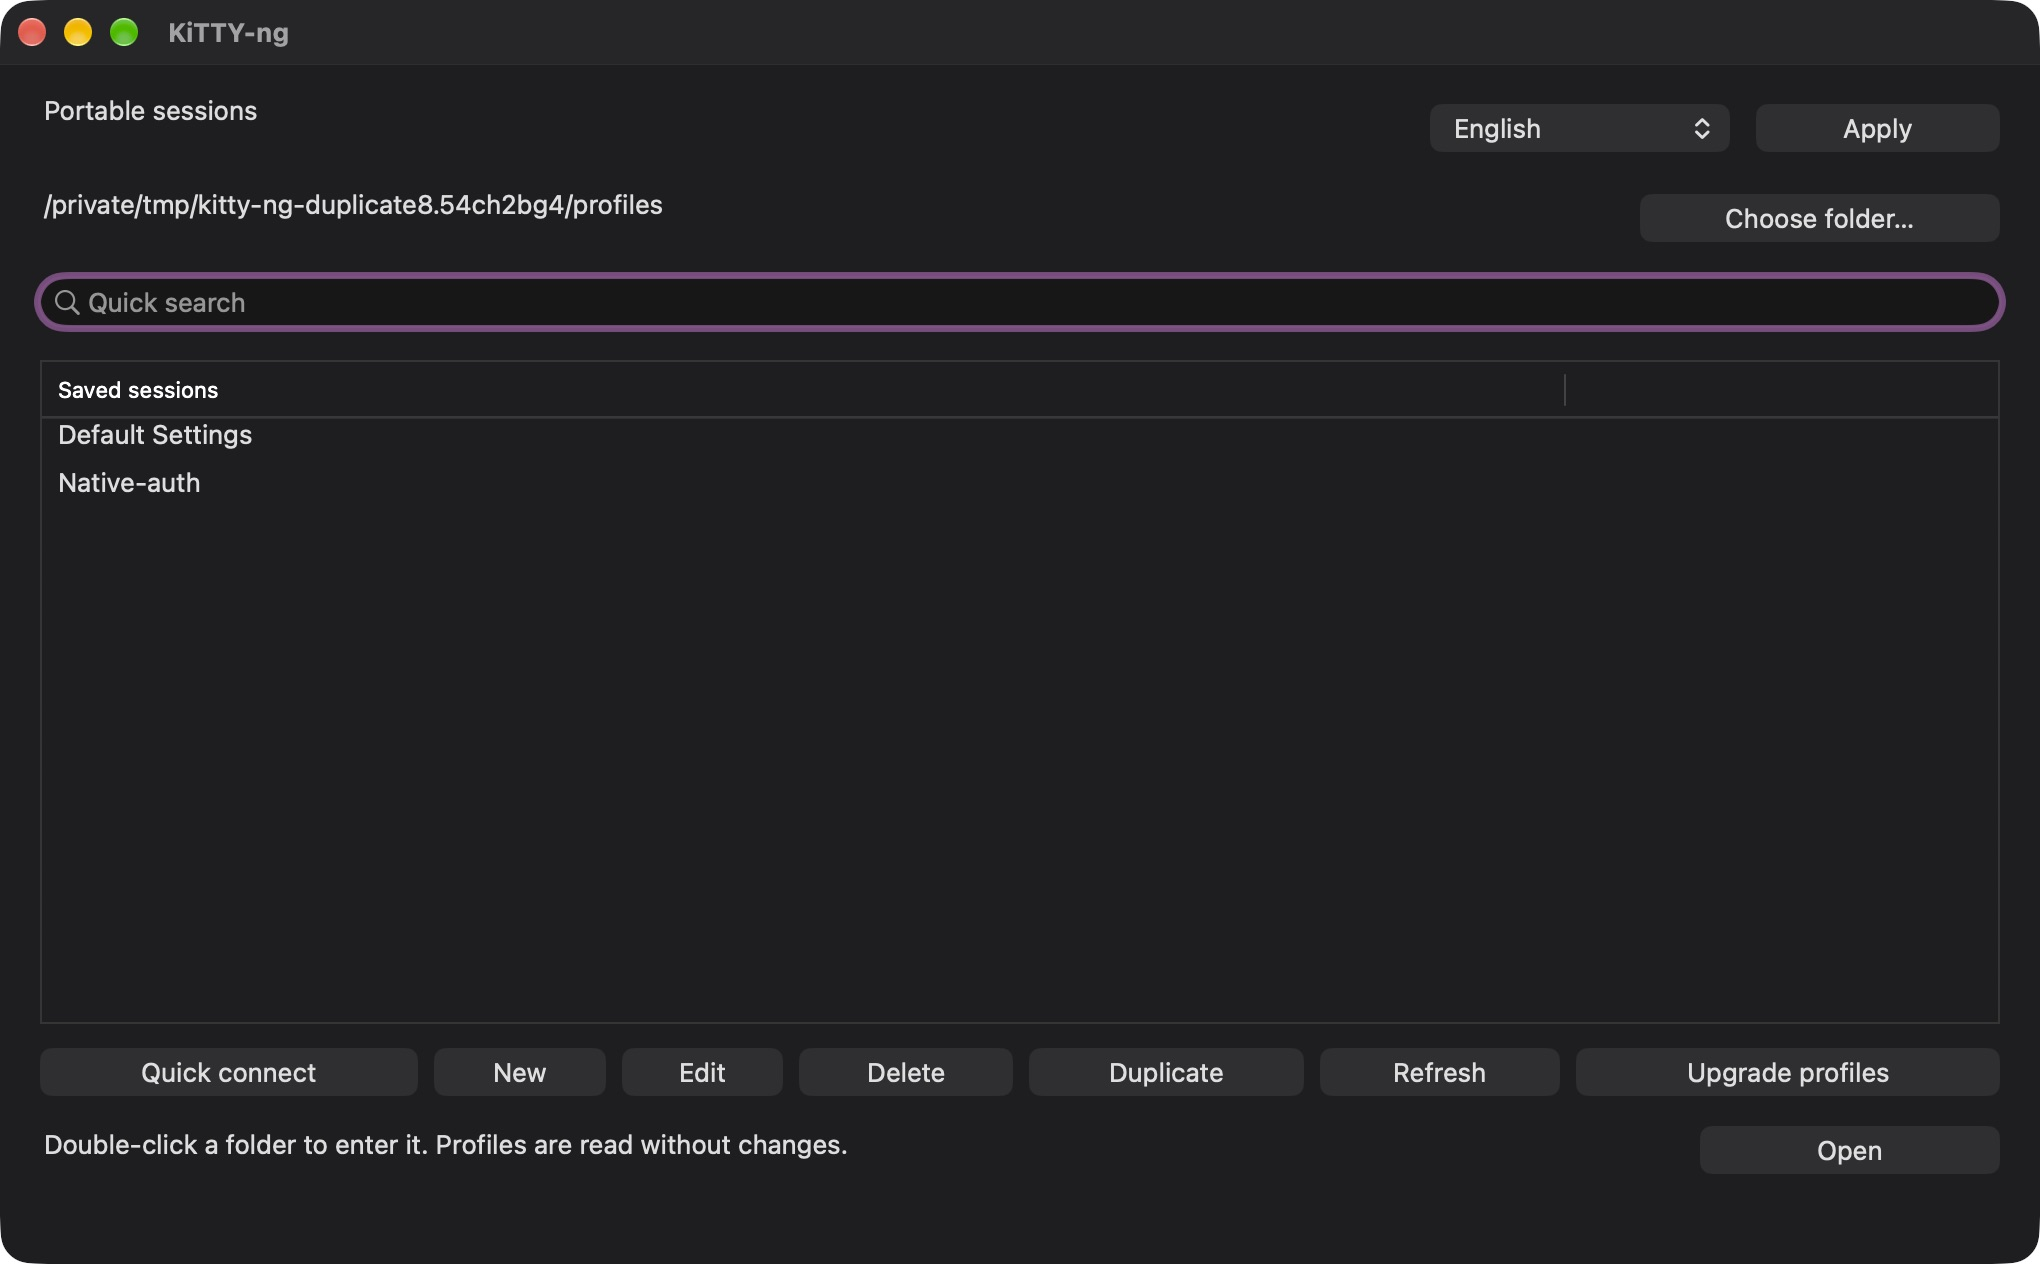
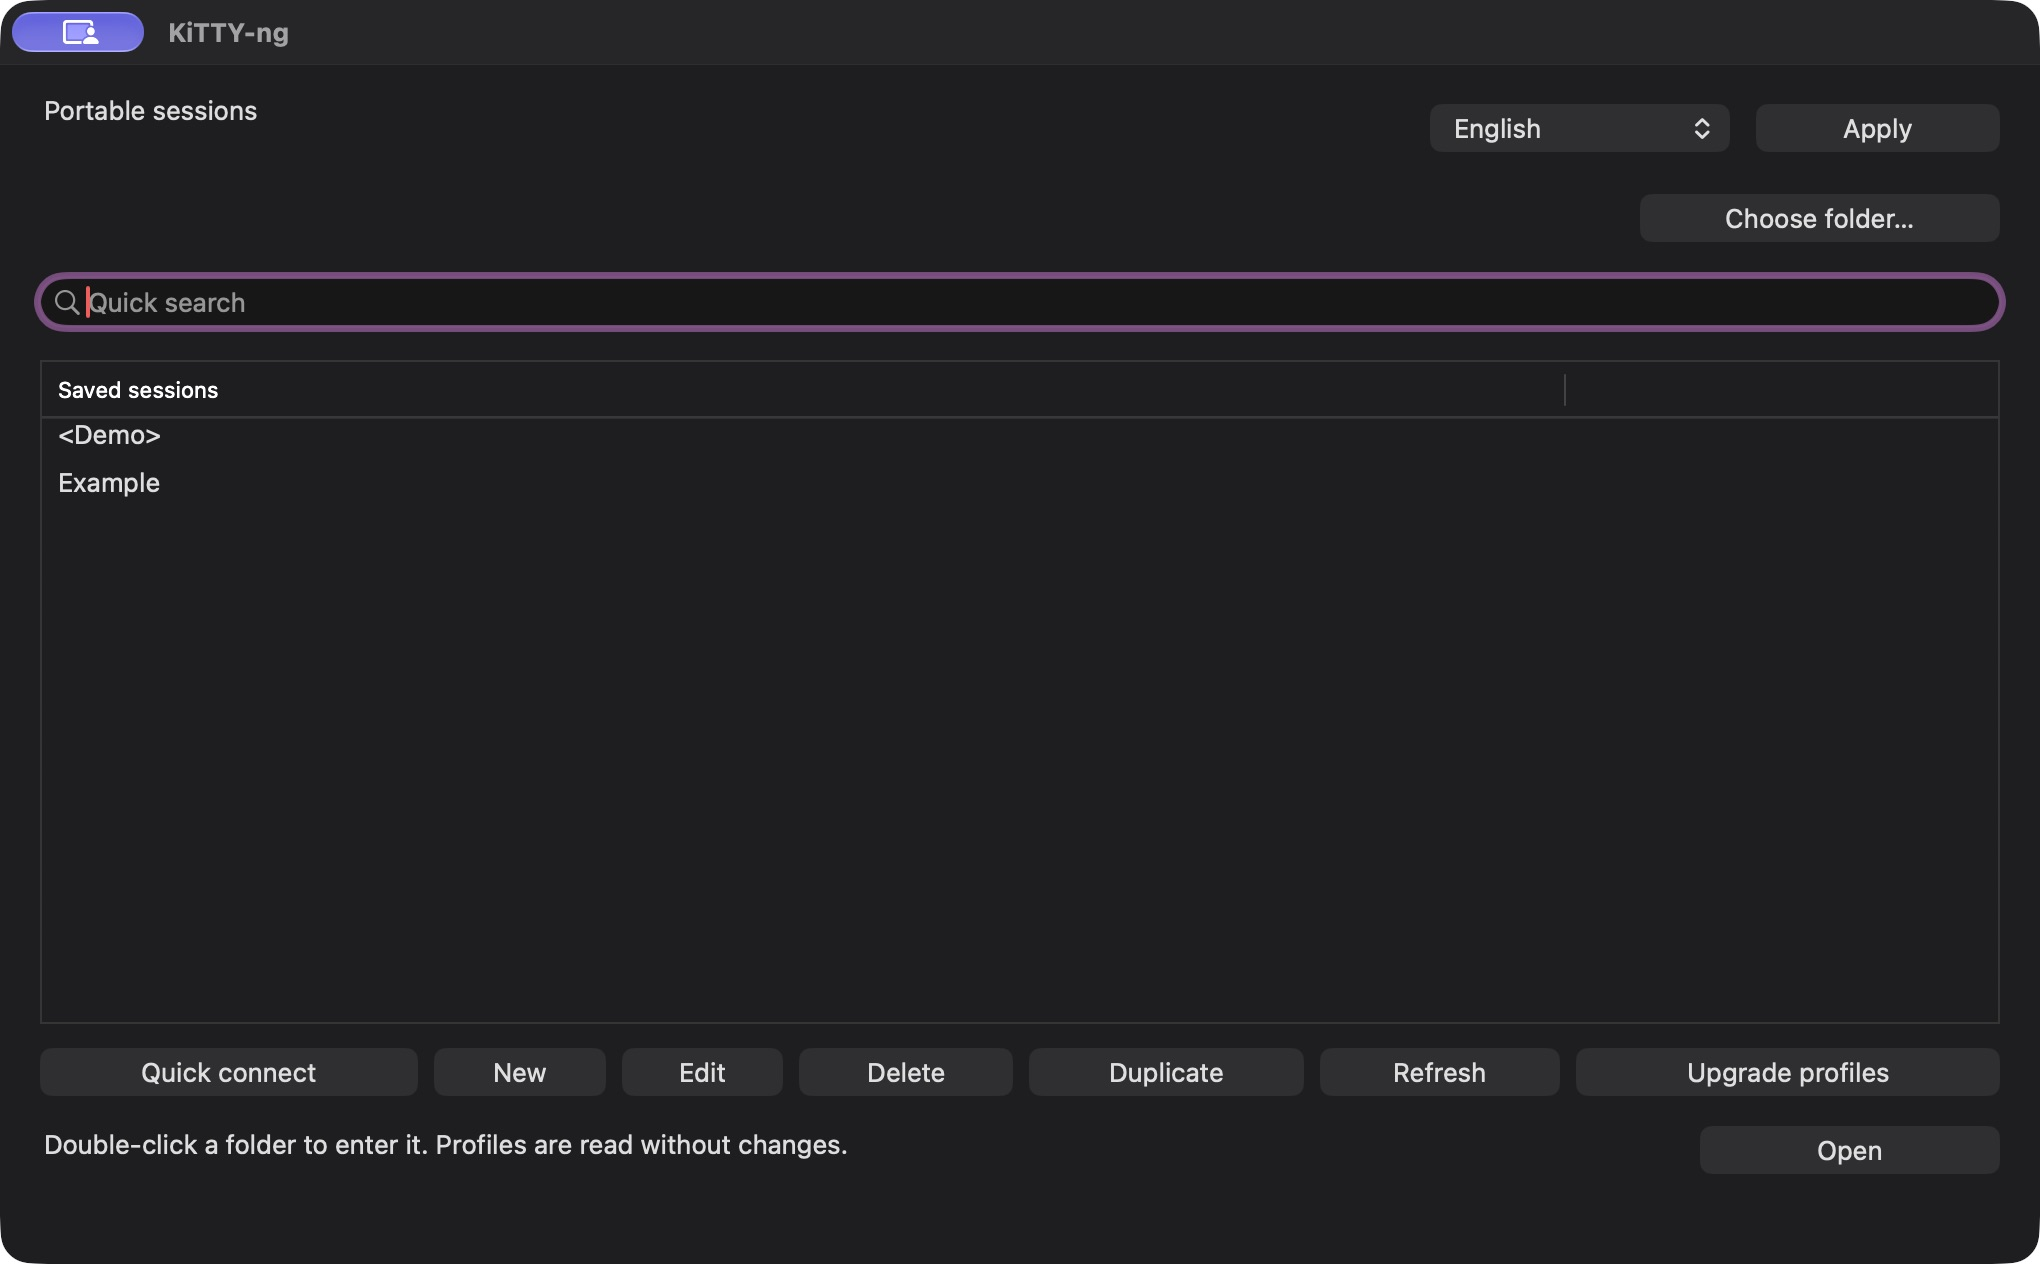
Document the native macOS 0.85-12 package

Changed region(s): [[0.0309, 0.1543, 0.3397, 0.1851], [0.0309, 0.3394, 0.1235, 0.4011], [0.0, 0.0, 0.0926, 0.0617]]

diff --git a/README.md b/README.md
@@ -14,7 +14,7 @@ KiTTY-ng развивает возможности KiTTY на современн
 
 ## Скачать
 
-В выпуске **0.85-12** доступны пять проверенных пакетов Windows и Linux. DMG для macOS Universal 2 готовится отдельно.
+В выпуске **0.85-12** доступны шесть проверенных пакетов для Windows, Linux и macOS.
 
 | Платформа | Сборка 0.85-12 | Запуск |
 | --- | --- | --- |
@@ -22,7 +22,7 @@ KiTTY-ng развивает возможности KiTTY на современн
 | Windows x64 | [ZIP](https://github.com/nr084/kitty-ng/releases/download/v0.85-12/kitty-ng-0.85-12-x64.zip) | `kitty-ng-x64.exe` |
 | Windows x86 | [ZIP](https://github.com/nr084/kitty-ng/releases/download/v0.85-12/kitty-ng-0.85-12-x86.zip) | `kitty-ng-x86.exe` |
 | Windows arm64 | [ZIP](https://github.com/nr084/kitty-ng/releases/download/v0.85-12/kitty-ng-0.85-12-arm64.zip) | `kitty-ng-arm64.exe` |
-| macOS 13+ · Intel / Apple Silicon | Universal DMG готовится | `KiTTY-ng.app` |
+| macOS 13+ · Intel / Apple Silicon | [Universal DMG](https://github.com/nr084/KiTTY-ng/releases/download/v0.85-12/kitty-ng-0.85-12-macos-universal.dmg) | `KiTTY-ng.app` |
 
 [Все релизы и контрольные суммы](https://github.com/nr084/kitty-ng/releases). В комплекте клиент и пять утилит. Имена Windows EXE содержат архитектуру; версия указана внутри программ и в именах архивов.
 
@@ -123,7 +123,7 @@ KiTTY-ng развивает возможности KiTTY на современн
 
 ### macOS Universal
 
-<img src="docs/screenshots/macos-tabs-ru.png" width="760" alt="KiTTY-ng — macOS">
+<img src="docs/screenshots/macos-session-ru.png" width="760" alt="KiTTY-ng — macOS">
 
 <details>
 <summary>KiTTYgen — macOS</summary>

diff --git a/README.en.md b/README.en.md
@@ -14,7 +14,7 @@ KiTTY-ng develops KiTTY's features on the modern **PuTTY 0.85** codebase. Manage
 
 ## Download
 
-Release **0.85-12** includes five verified Windows and Linux packages. The macOS Universal 2 DMG is being prepared separately.
+Release **0.85-12** includes six verified packages for Windows, Linux and macOS.
 
 | Platform | Release 0.85-12 | Launch |
 | --- | --- | --- |
@@ -22,7 +22,7 @@ Release **0.85-12** includes five verified Windows and Linux packages. The macOS
 | Windows x64 | [ZIP](https://github.com/nr084/kitty-ng/releases/download/v0.85-12/kitty-ng-0.85-12-x64.zip) | `kitty-ng-x64.exe` |
 | Windows x86 | [ZIP](https://github.com/nr084/kitty-ng/releases/download/v0.85-12/kitty-ng-0.85-12-x86.zip) | `kitty-ng-x86.exe` |
 | Windows arm64 | [ZIP](https://github.com/nr084/kitty-ng/releases/download/v0.85-12/kitty-ng-0.85-12-arm64.zip) | `kitty-ng-arm64.exe` |
-| macOS 13+ · Intel / Apple Silicon | Universal DMG pending | `KiTTY-ng.app` |
+| macOS 13+ · Intel / Apple Silicon | [Universal DMG](https://github.com/nr084/KiTTY-ng/releases/download/v0.85-12/kitty-ng-0.85-12-macos-universal.dmg) | `KiTTY-ng.app` |
 
 [All releases and checksums](https://github.com/nr084/kitty-ng/releases). Each package includes the client and five utilities. Windows EXE names include their architecture; versions are embedded in the programs and included in archive names.
 
@@ -123,7 +123,7 @@ Windows utilities match the client's architecture; all five macOS helpers are Un
 
 ### macOS Universal
 
-<img src="docs/screenshots/macos-tabs-en.png" width="760" alt="KiTTY-ng — macOS">
+<img src="docs/screenshots/macos-session-en.png" width="760" alt="KiTTY-ng — macOS">
 
 <details>
 <summary>KiTTYgen — macOS</summary>

diff --git a/docs/releases/0.85-12.md b/docs/releases/0.85-12.md
@@ -8,4 +8,8 @@
 
 Если в поле сервера вставить HTTP- или HTTPS-адрес, KiTTY-ng использует только имя хоста или IP. Протокол и порт берутся из настроек сеанса.
 
-macOS Universal DMG готовится отдельно.
+**macOS Universal 2 готова.** [Скачать DMG](https://github.com/nr084/KiTTY-ng/releases/download/v0.85-12/kitty-ng-0.85-12-macos-universal.dmg).
+
+В AppKit ручная проверка обновлений доступна в окне «О программе». Автоматическая проверка выполняется в фоне не чаще раза в сутки. При дублировании сохраняется окно, а геометрия терминала меняется только у активной вкладки. Из HTTP(S)-адреса берётся только хост или IP. Протокол, порт и имя пользователя берутся из настроек сеанса.
+
+Портативный режим macOS совместим с Windows-профилями KiTTY-ng. Сеансы, ключи и настройки хранятся вне приложения. Приложение и пять помощников проверены из смонтированного DMG на ARM64 и через Rosetta. Mac-сборка сделана из `fa3b4f52183ee783771245073cc853bd1be9755e` официальным LLVM 23.1.5.
